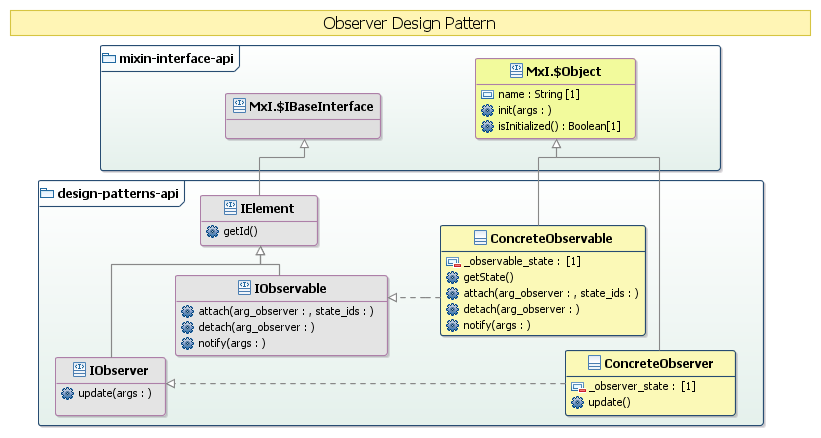
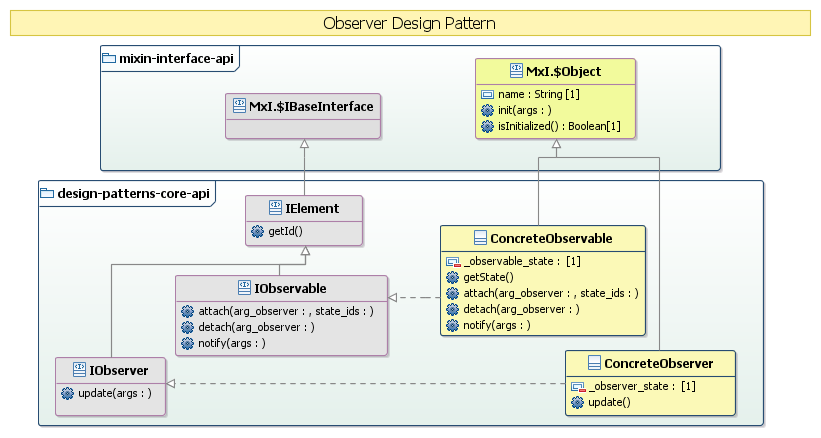
0.1.2

Changed region(s): [[0.1827, 0.4155, 0.4568, 0.5936]]

diff --git a/README.md b/README.md
@@ -10,10 +10,10 @@ Implementation of the 23 original ("Gang Of Four") [_Design Patterns_](https://e
 * **Craft a proposal for each pattern:** there are many references about _Design Patterns_. My proposals should be not be taken as reference but more as an ongoing work (for which your feedback is welcome). Thus I advise you to study by yourself the references (I have gathered some of them in the _References_ paragraph) to check it they fits your learning curve and your own design issues.
 * **Resolve name conflicts across patterns:** in the references, it happens that participant names (and operation names as well) are shared across patterns. In my proposals, I resolved these name conflicts either by mining in the references or by adding parent interface classes (e.g. _IElement_, _IAction, _ICoreComponent_...).
 
-### Changelog for Release 0.1.1
+### Changelog for Release 0.1.2
 * Documentation upgrade: UML class diagram for the 'Observer' pattern
 * Design Issue: in 'Observer' pattern, operation names for 'IObserver' and 'IObservable' are clumsy and error prone.
-* Design Fix: rename of 'notify()' to 'update()' in 'IObserver', renames in 'IObserver' ('registerObserver()' replaced by 'attach()', 'unregisterObserver()' replaced by 'detach()' and 'notifyObservers' replaced by 'notify()'
+* Design Fix: renames in 'IObserver' ('notify()' replaced by 'update()'), renames in 'IObserver' ('registerObserver()' replaced by 'attach()', 'unregisterObserver()' replaced by 'detach()' and 'notifyObservers()' replaced by 'notify()'
 * Minor documentation fix: fix of 'IElement' broken link in 'IVisitor' pattern.  
 
 ### Roadmap
